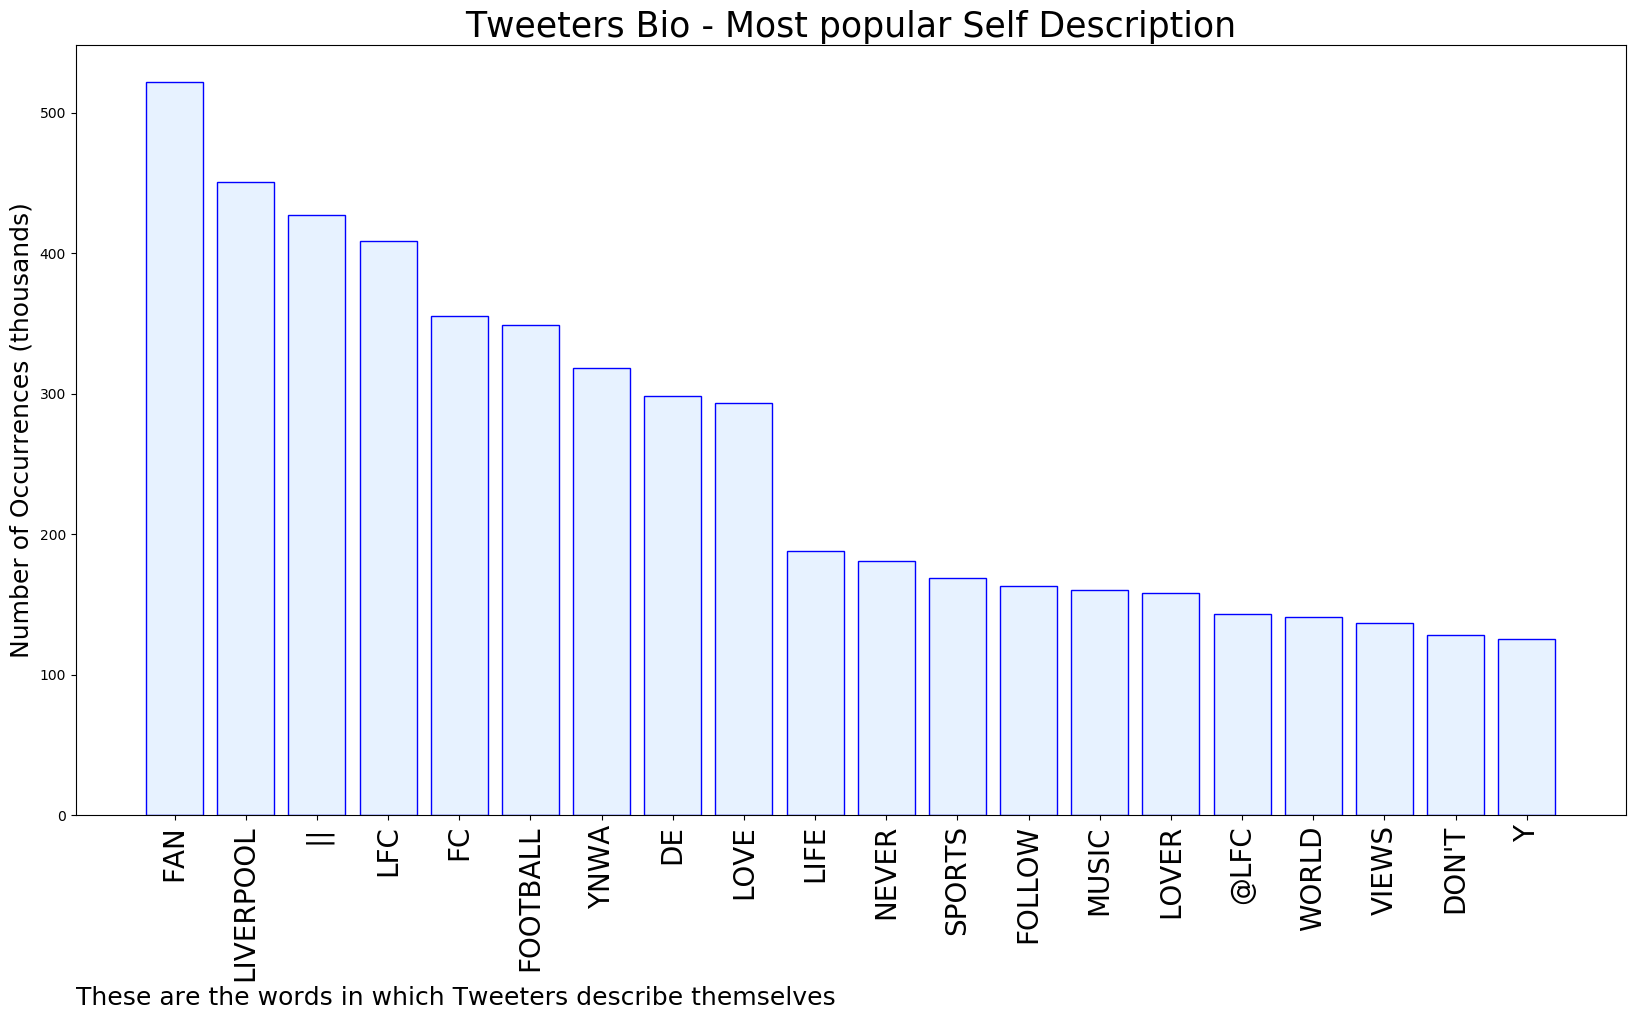
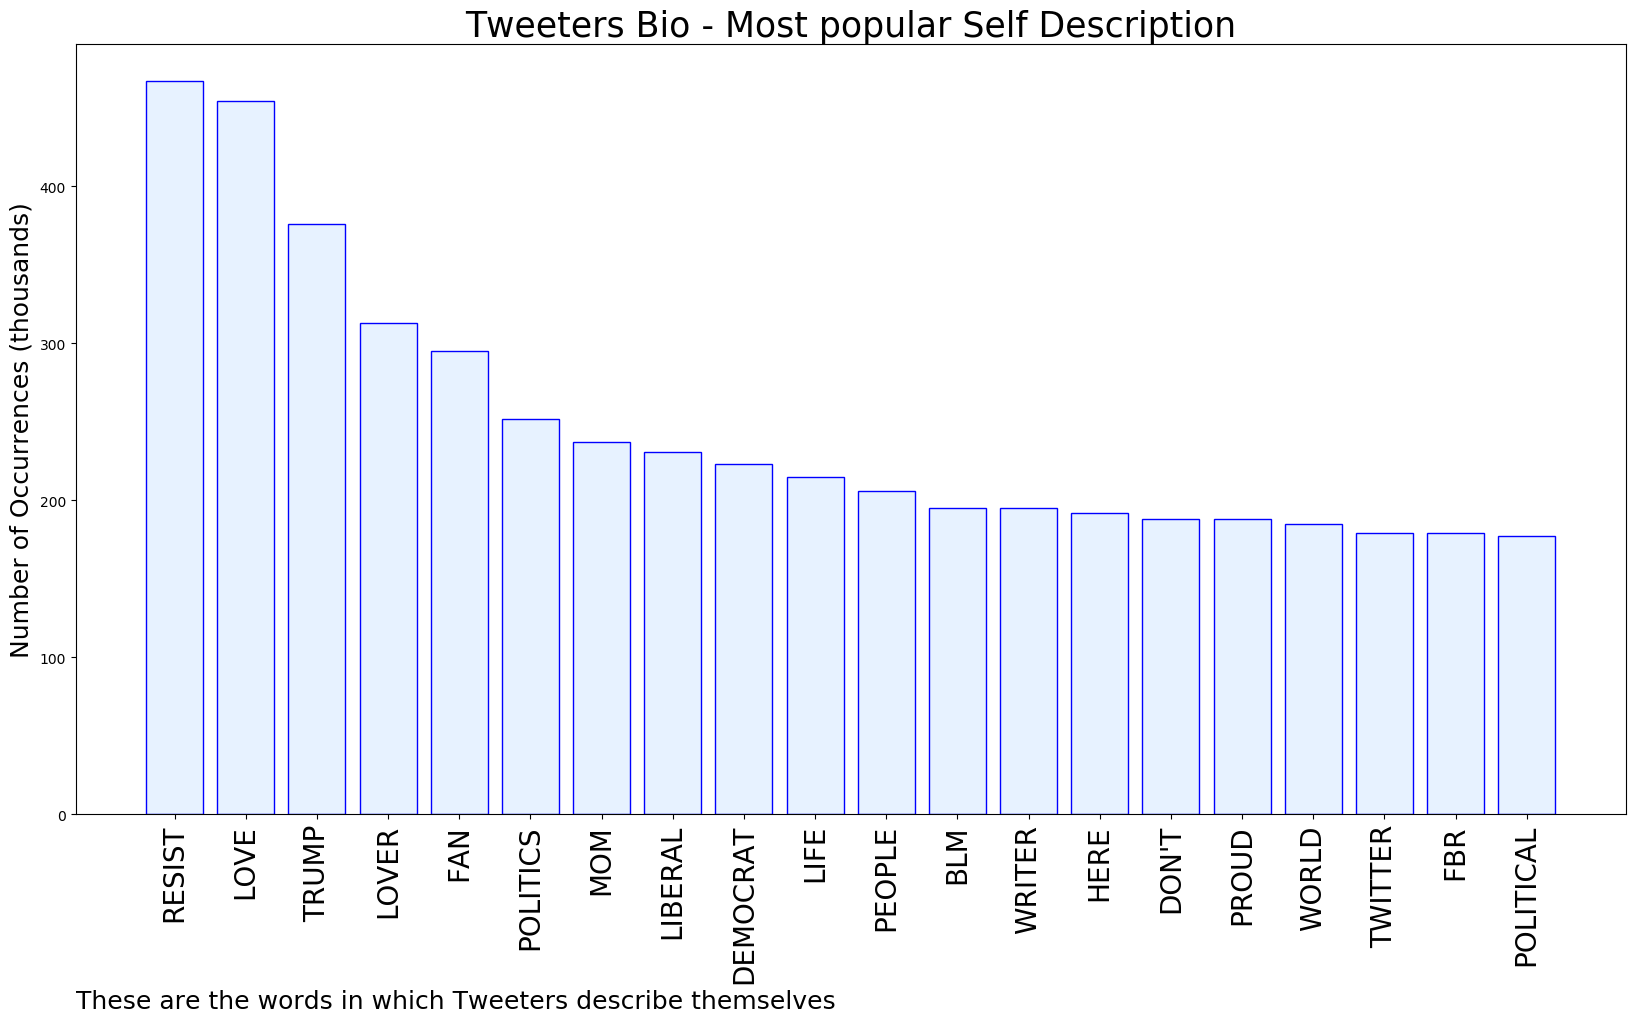
Updating with latest report

diff --git a/README.md b/README.md
@@ -1,5 +1,5 @@
 # MURCHIE85 TWITTER PROCESSING 
-&#x1F34E; **TOPIC = "Liverpool"**
+&#x1F34E; **TOPIC = "Dick Cheney"**
 
 ## AUTOMATED RESEARCH SUMMARY
 
@@ -15,23 +15,27 @@
 
 |                **Sample-Tweets**        |
 | :-------------: |
-| RT @BlancoAbhi: This might be the first league title for many Liverpool fans, Jurgen Klopp deserves a statue outside Anfield. Man's a fucki… |
-| RT @brfootball: 1990-2020.Liverpool's 30-year wait for a league title is over. https://t.co/9MXENLCCXC |
-| RT @brfootball: 1990-2020.Liverpool's 30-year wait for a league title is over. https://t.co/9MXENLCCXC |
+| RT @AaronBlake: Marco Rubio: Wear a maskRick Scott: Wear a maskGreg Abbott: Wear a maskDoug Ducey: Wear a maskDoug Burgum: Wear a m… |
+| RT @Liz_Cheney: Dick Cheney says WEAR A MASK. #realmenwearmasks https://t.co/iBfVoa7ypL |
+| RT @AaronBlake: Marco Rubio: Wear a maskRick Scott: Wear a maskGreg Abbott: Wear a maskDoug Ducey: Wear a maskDoug Burgum: Wear a m… |
 
-The most popular user is: **ALMACrowther**
-<div class="alert alert-block alert-danger"> RT @LFC: Tell the world…
+The most popular user is: **jlj1198**
+<div class="alert alert-block alert-danger"> RT @DeNarde4MDDel: George W. Bush has a DUI
+Dick Cheney has a DUI
+Matt Gaetz has a DUI
+Mike Crapo has a DUI
+Beto O’Rourke has a DUI
 
-We are Liverpool, champions of England. https://t.co/altgWn1Wda</div>
+But Ra…</div>
 
 ## RELATED METRICS<br>
 | Metric | Value |
 | ------------- | ------------- |
-| #1 Most tweeted to  | **LFC** |
-| #2 Most tweeted to  | **brfootball** |
-| #3 Most tweeted to  | **rafabenitezweb** |
-| NewProfiles (less than 10 days) | 0.53%  |
-| Tweeters with < 10 followers  | 3.06%|
+| #1 Most tweeted to  | **Liz_Cheney** |
+| #2 Most tweeted to  | **mmpadellan** |
+| #3 Most tweeted to  | **JRehling** |
+| NewProfiles (less than 10 days) | 0.5%  |
+| Tweeters with < 10 followers  | 2.75%|
 | Tweeters with > 1000000 followers  | 0.03%  |
 
 
@@ -41,11 +45,11 @@ We are Liverpool, champions of England. https://t.co/altgWn1Wda</div>
 
 | Popularity Rank  | Term |
 | ------------- | ------------- |
-| first  | **LIVERPOOL**  |
-| second  | **LEAGUE**  |
-| third  | **TITLE** |
-| fourth  | **CHAMPIONS**  |
-| fifth  | **PREMIER**  |
+| first  | **CHENEY**  |
+| second  | **DICK**  |
+| third  | **MASK** |
+| fourth  | **WEAR**  |
+| fifth  | **REALMENWEARMASKS**  |
 
 
 ## Twitter Bio Analysis![image](BIO.png)
@@ -56,13 +60,13 @@ VIEWS WERE : **SUBJECTIVE**  (13.33%) & **NEGATIVELY-SUBJECTIVE** (13.33%) **OBJ
 ### TWEET SAMPLE 
 | Random value picked from array |
 | ------------- |
-|RT @espn: LeBron, a Liverpool minority owner, celebrates the Premier League title 🏆 https://t.co/639ux7GMvQ |
+|RT @Liz_Cheney: Dick Cheney says WEAR A MASK. #realmenwearmasks https://t.co/iBfVoa7ypL |
 
 ### MOST RETWEETED 
 
-| The most retweeted user is: **ALMACrowther**  |
+| The most retweeted user is: **jlj1198**  |
 | ------------- |
-| RT @LFC: Tell the world…We are Liverpool, champions of England. https://t.co/altgWn1Wda |
+| RT @DeNarde4MDDel: George W. Bush has a DUIDick Cheney has a DUIMatt Gaetz has a DUIMike Crapo has a DUIBeto O’Rourke has a DUIBut Ra… |
 
 ### CONCLUSION & EXTERNAL ANALYSIS
 
